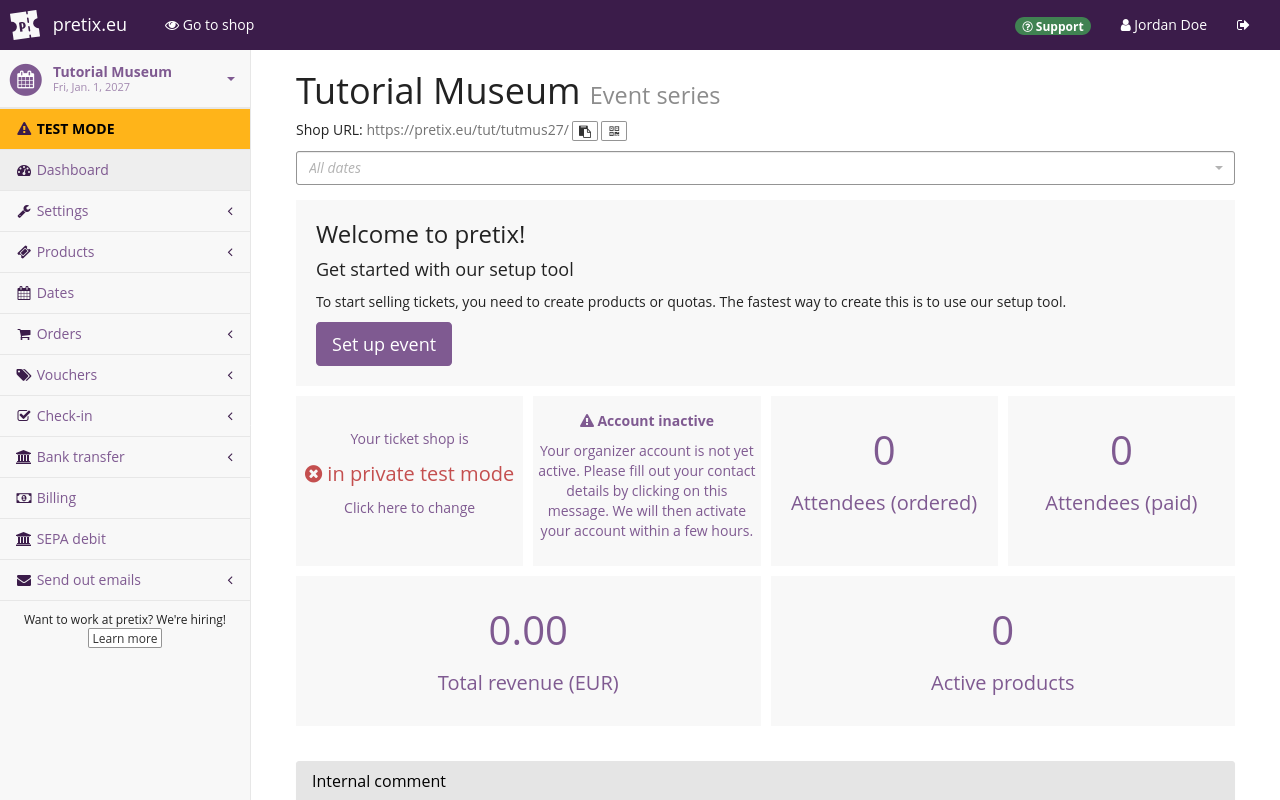
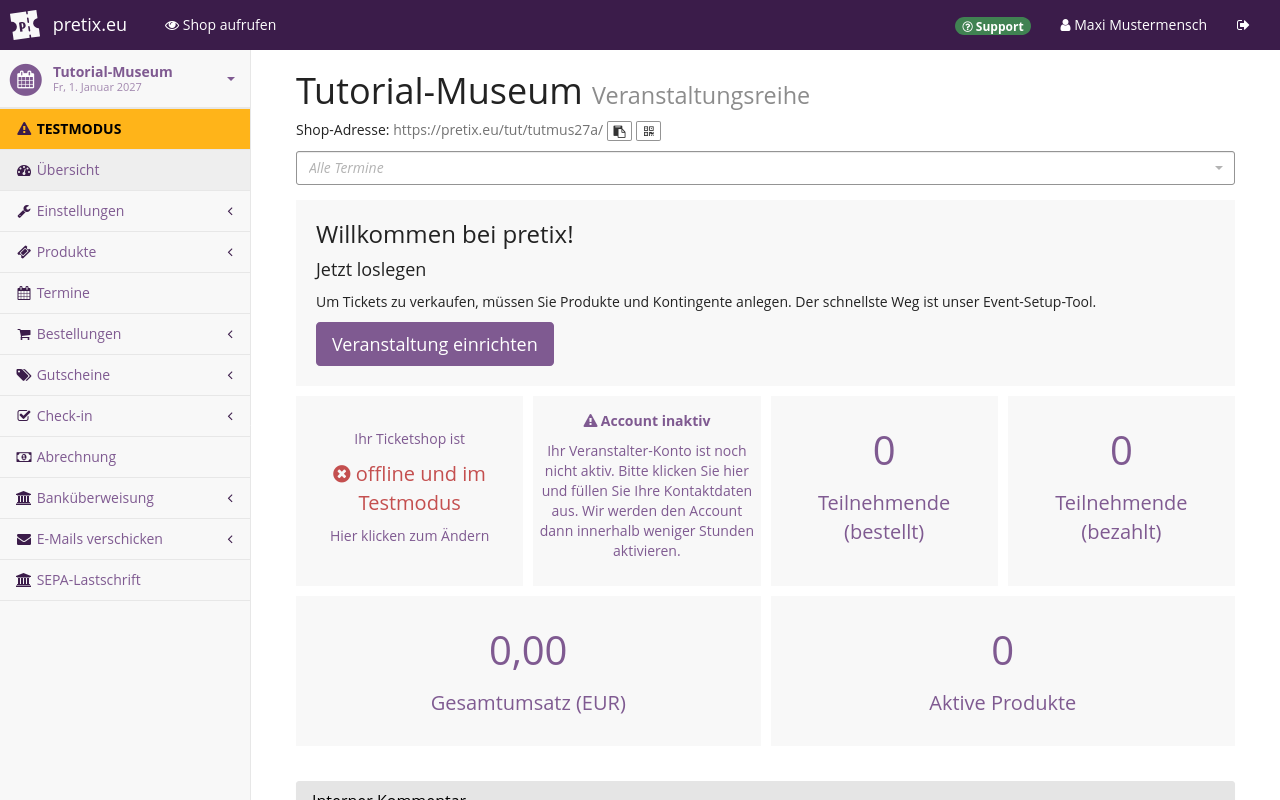
Products: add German screenshots (#183)
* Add German screenshots

* Add screenshots

* Add screenshots

* Add markings and arrows to screenshots

diff --git a/docs/guides/products/index.de.md b/docs/guides/products/index.de.md
@@ -18,7 +18,7 @@ Diese Anleitung erläutert die notwendigen Schritte daher in genau dieser Reihen
 
 ### Kategorien erstellen und bearbeiten
 
-![Eine Seite mit dem Titel 'Produktkategorien' zeigt eine Liste mit Kategorien, die nur den Eintrag 'Tickets' enthält, sowie einen Button zum Erstellen einer neuen Kategorie.](../../assets/screens/products/categories.png "Screenshot 'Produktkategorien'")
+![Eine Seite mit dem Titel 'Produktkategorien' zeigt eine Liste mit Kategorien, die nur den Eintrag 'Tickets' enthält, sowie einen Button zum Erstellen einer neuen Kategorie.](../../assets/screens/products/categories.de.png "Screenshot 'Produktkategorien'")
 
 Kategorien erfüllen mehrere Zwecke.
 Sie helfen Ihnen, Produkte sinnvoll zu gruppieren, sowohl im Backend als auch in Ihrem Shop.
@@ -54,7 +54,7 @@ Dazu klicken Sie auf ihren Namen oder den Bearbeitungsbutton :btn-icon:fa3-edit:
 
 ### Produkte erstellen und bearbeiten
 
-![Eine Seite mit dem Titel 'Produkte' zeigt eine Produktliste mit zwei Einträgen sowie einer Schaltfläche zum Erstellen eines neuen Produkts.](../../assets/screens/products/products.png "Screenshot 'Produkte'")
+![Eine Seite mit dem Titel 'Produkte' zeigt eine Produktliste mit zwei Einträgen sowie einer Schaltfläche zum Erstellen eines neuen Produkts.](../../assets/screens/products/products.de.png "Screenshot 'Produkte'")
 
 Wenn Sie Produkte erstellen oder bearbeiten möchten, navigieren Sie zu :navpath:Veranstaltung → :fa3-ticket: Produkte → Produkte:.
 Die angezeigte Seite zeigt eine Liste aller Produkte zu dieser Veranstaltung.
@@ -88,7 +88,7 @@ Dieser Guide erläutert Ihnen, wie Sie eine Veranstaltung mit Zeitfenstern erste
 Erstellen Sie eine neue Veranstaltung.
 Wählen Sie bei "Veranstaltungsart" die Option "Veranstaltungsreihe oder Zeitslotbuchung".
 
-![Seite mit dem Titel 'Neue Veranstaltung erstellen (Schritt 1)'. Bei 'Veranstaltungsart' ist die Option 'Veranstaltungsreihe oder Zeitslotbuchung' gewählt.'  ](../../assets/screens/event/create-series.png "Neue Veranstaltung erstellen")
+![Seite mit dem Titel 'Neue Veranstaltung erstellen (Schritt 1)'. Bei 'Veranstaltungsart' ist die Option 'Veranstaltungsreihe oder Zeitslotbuchung' gewählt.'  ](../../assets/screens/event-series/create-event-series1.de.png "Neue Veranstaltung erstellen")
 
 Grundlegende Informationen, wie Sie in pretix eine Veranstaltungsreihe erstellen, erhalten Sie in unserem Guide zu [Veranstaltungsreihen](../event-series.md).
 
@@ -106,7 +106,7 @@ Es ist sinnvoll, Zeitfenster für mehrere Wochen zu erstellen.
 Erstellen Sie keine Zeitfenster für ein ganzes Jahr oder einen noch längeren Zeitraum:
 Das macht es unnötig kompliziert, falls Sie später Änderungen daran vornehmen müssen.
 
-![Seite mit dem Titel 'Mehrere Termine erstellen', auf der die oben beschriebenen Optionen gewählt sind. Am rechten Rand wird eine Vorschau mit allen Terminen, die angelegt werden sollen, angezeigt.](../../assets/screens/event-series/create-multiple-example2.png "Mehrere Termine erstellen")
+![Seite mit dem Titel 'Mehrere Termine erstellen', auf der die oben beschriebenen Optionen gewählt sind. Am rechten Rand wird eine Vorschau mit allen Terminen, die angelegt werden sollen, angezeigt.](../../assets/screens/event-series/create-multiple-example2.de.png "Mehrere Termine erstellen")
 
 Geben Sie unter "Uhrzeiten" die Zeitfenster für jeden Veranstaltungstag ein.
 Wenn Ihr Veranstaltungsort jeden Tag von 10 bis 18 Uhr geöffnet ist und jedes Zeitfenster eine volle Stunde beträgt, können Sie den Button :btn-icon:fa3-calendar: Viele Zeitfenster hinzufügen: klicken.
@@ -116,7 +116,7 @@ Falls Ihr Zeitfenster-Muster unregelmäßig oder komplexer ist, verwenden Sie de
 
 Wenn Sie an verschiedenen Wochentagen unterschiedliche Öffnungszeiten haben, müssen Sie diesen Vorgang jede Variante der Öffnungszeiten einzeln erstellen.
 
-![Seite mit dem Titel 'Uhrzeiten' und acht Zeitfenstern von 10 bis 18 Uhr; jedes Zeitfenster dauert eine Stunde und es sind keine Einlasszeiten angegeben.](../../assets/screens/event-series/create-times.png "Mehrere Terminen erstellen – Termine")
+![Seite mit dem Titel 'Uhrzeiten' und acht Zeitfenstern von 10 bis 18 Uhr; jedes Zeitfenster dauert eine Stunde und es sind keine Einlasszeiten angegeben.](../../assets/screens/event-series/create-times.de.png "Mehrere Terminen erstellen – Termine")
 
 Erstellen Sie bei "Kontingente" ein oder mehrere Kontingente.
 Diese Kontingente bestimmen, wie viele Personen ein Ticket für ein Zeitfenster buchen können.
@@ -135,7 +135,7 @@ Für eine Veranstaltungsreihe oder das Buchen von Zeitfenstern ist es sinnvoll, 
 Dazu navigieren Sie zu :navpath:Ihre Veranstaltung → :fa3-wrench: Einstellungen → Allgemein:.
 Rufen Sie den Reiter :btn:Anzeige: auf und wählen Sie bei "Standard-Anzeige" die Option "Wochenkalender".
 
-![Seite mit der Überschrift 'Kalender- und Listenansichten'. Unter 'Standard-Anzeige' ist die Option 'Wochenkalender' ausgewählt.](../../assets/screens/event-series/calendar-views.png "Anzeige – Kalender- und Listenansichten")
+![Seite mit der Überschrift 'Kalender- und Listenansichten'. Unter 'Standard-Anzeige' ist die Option 'Wochenkalender' ausgewählt.](../../assets/screens/event-series/calendar-views.de.png "Anzeige – Kalender- und Listenansichten")
 
 In Ihrem Shop wird jetzt ein Wochenüberblick aller Zeitfenster und ihrer jeweiligen Verfügbarkeit angezeigt.
 
@@ -155,7 +155,7 @@ Das Feld "Toleranz (Minuten)" können Sie leer lassen.
 Wenn Sie den Teilnehmer\*innen die Möglichkeit geben möchten, beispielsweise 10 Minuten vor Veranstaltungsbeginn eingelassen zu werden, geben Sie bei "Toleranz (Minuten)" `10` an.
 Klicken Sie den Button :btn-icon:fa3-plus-circle: Bedingung hinzufügen: erneut und wählen Sie erst "Aktueller Zeitpunkt", dann "ist vor" und dann "Veranstaltungsende".
 
-![Seite für eigene Check-in-Regel, die entsprechend der Anleitung oben eingerichtet wurde.](../../assets/screens/products/time-slot-check-in-rule.png "Eigene Check-In-Regeln")
+![Seite für eigene Check-in-Regel, die entsprechend der Anleitung oben eingerichtet wurde.](../../assets/screens/products/time-slot-check-in-rule.de.png "Eigene Check-In-Regeln")
 
 Mit diesen beiden Einschränkungen können Kund\*innen Ihre Veranstaltung nur in dem Zeitfenster besuchen, für das sie ein Ticket gekauft haben.
 Wenn Sie alles wie gewünscht gewählt haben, klicken Sie den Button :btn:Speichern:.
@@ -197,7 +197,7 @@ Option A erfordert, dass Kund\*innen über ein Kund\*innenkonto identifiziert w
 Sie müssen daher zuerst in den Veranstalter-Einstellungen auf dem Reiter "Kundenkonten" die Funktion für Kund\*innenkonten aktivieren.
 Siehe auch: [Kund\*innenkonten](../customer-accounts.md)
 
-![Seite mit Veranstalter-Einstellungen, Reiter 'Kundenkonten'. Die Kontrollkästchen 'Erlaube Kunden, Kundenkonten zu registrieren', 'Erlaube den Login mit E-Mail-Adresse und Passwort' und 'Bestellungen auf Basis der E-Mail-Adresse Kundenkonten zuordnen' sind gewählt.](../../assets/screens/organizer/customer-accounts.png "Veranstalter-Einstellungen – Kundenkonten")
+![Seite mit Veranstalter-Einstellungen, Reiter 'Kundenkonten'. Die Kontrollkästchen 'Erlaube Kunden, Kundenkonten zu registrieren', 'Erlaube den Login mit E-Mail-Adresse und Passwort' und 'Bestellungen auf Basis der E-Mail-Adresse Kundenkonten zuordnen' sind gewählt.](../../assets/screens/organizer/customer-accounts.de.png "Veranstalter-Einstellungen – Kundenkonten")
 
 Navigieren Sie anschließend zu :navpath:Ihr Veranstalter → :fa3-user: Kundenkonten → Mitgliedschafts-Typen:.
 Klicken Sie den Button :btn-icon:fa3-plus: Neuen Mitgliedschafts-Typ erstellen:.
@@ -210,7 +210,7 @@ Um einzustellen, dass im Rahmen der Mitgliedschaft nur eine begrenzte Anzahl Kä
 Wenn im festgelegten Zeitraum eine unbegrenzte Zahl Käufe möglich ist, lassen Sie das Feld leer.
 Wenn Sie alles wie gewünscht gewählt haben, klicken Sie den Button :btn:Speichern:.
 
-![Seite mit dem Titel 'Neuen Mitgliedschafts-Typ erstellen'. Der angegebene Name ist 'Saisonkarte 2027-1'. Die Felder neben 'Mitgliedschaft ist übertragbar' und 'Parallele Nutzung ist möglich' sind angekreuzt. Das Feld 'Maximale Nutzungen' ist leer.](../../assets/screens/products/membership-type.png "Neuen Mitgliedschafts-Typ erstellen")
+![Seite mit dem Titel 'Neuen Mitgliedschafts-Typ erstellen'. Der angegebene Name ist 'Saisonkarte 2027-1'. Die Felder neben 'Mitgliedschaft ist übertragbar' und 'Parallele Nutzung ist möglich' sind angekreuzt. Das Feld 'Maximale Nutzungen' ist leer.](../../assets/screens/products/membership-type.de.png "Neuen Mitgliedschafts-Typ erstellen")
 
 Wenn Sie den Mitgliedschafts-Typ erstellt haben, brauchen Sie eine Möglichkeit, diese Mitgliedschaften zu verkaufen.
 Erstellen Sie eine neue Veranstaltung, deren Beginn und Ende denen des Zeitraums der Saison entsprechen, für die Sie Dauerkarten verkaufen möchten.
@@ -222,7 +222,7 @@ Wählen Sie unter "Dieses Produkt erstellt eine Mitgliedschaft vom Typ" die Mitg
 Standardmäßig ist das Kontrollkästchen neben "Die Dauer der Mitgliedschaft entspricht der Dauer der Veranstaltung bzw. in Veranstaltungsreihen des gebuchten Termins" angekreuzt.
 Falls Sie mehrere Zeitkarten für unterschiedliche Zeiträume verkaufen, die nicht mit der Veranstaltungsdauer übereinstimmen, entfernen Sie die Markierung aus diesem Kontrollkästchen.
 
-![Seite mit dem Titel 'Produkt bearbeiten': Saisonkarte auf dem Reiter 'Zusätzliche Einstellungen'. Unter 'Dieses Produkt erstellt eine Mitgliedschaft vom Typ' ist die Mitgliedschaft 'Saisonkarte 2027-01' gewählt. Das Kontrollkästchen neben 'Die Dauer der Mitgliedschaft entspricht der Dauer der Veranstaltung bzw. in Veranstaltungsreihen des gebuchten Termins' ist markiert.](../../assets/screens/products/product-creates-membership.png "Produkt bearbeiten: Saisonkarte")
+![Seite mit dem Titel 'Produkt bearbeiten': Saisonkarte auf dem Reiter 'Zusätzliche Einstellungen'. Unter 'Dieses Produkt erstellt eine Mitgliedschaft vom Typ' ist die Mitgliedschaft 'Saisonkarte 2027-01' gewählt. Das Kontrollkästchen neben 'Die Dauer der Mitgliedschaft entspricht der Dauer der Veranstaltung bzw. in Veranstaltungsreihen des gebuchten Termins' ist markiert.](../../assets/screens/products/product-creates-membership.de.png "Produkt bearbeiten: Saisonkarte")
 
 Damit Kund\*innen die Dauerkarte nicht mit dem Ticket verwechseln, empfiehlt es sich, die Möglichkeit zum Herunterladen des Tickets zu deaktivieren.
 Navigieren Sie zu :navpath:Ihre Veranstaltung →  :fa3-wrench: Einstellungen: und entfernen Sie die Markierung aus dem Kästchen neben "Ticket-Download anschalten".
@@ -236,7 +236,7 @@ Wenn Sie dieses Produkt nur Kund\*innen anzeigen möchten, die bereits eine akti
 Wiederholen Sie diese Schritte für jedes Produkt, das für Inhaber\*innen von Dauerkarten kostenlos verfügbar sein soll.
 Wenn Inhaber\*innen von Dauerkarten die Möglichkeit haben sollen, mehrere Ihrer Veranstaltung kostenlos zu besuchen, wiederholen Sie diese Schritte für jede in Frage kommende Veranstaltung.
 
-![Seite mit der gewählten Option 'Erfordere eine aktive Mitgliedschaft' und der Option 'Erlaubte Mitgliedschafts-Typen', unter der 'Saisonkarte2027-1' markiert ist. Das Kontrollkästchen neben 'Ohne gültige Mitgliedschaft verstecken' ist markiert.](../../assets/screens/products/require.png "Erfordere eine aktive Mitgliedschaft")
+![Seite mit der gewählten Option 'Erfordere eine aktive Mitgliedschaft' und der Option 'Erlaubte Mitgliedschafts-Typen', unter der 'Saisonkarte2027-1' markiert ist. Das Kontrollkästchen neben 'Ohne gültige Mitgliedschaft verstecken' ist markiert.](../../assets/screens/products/require.de.png "Erfordere eine aktive Mitgliedschaft")
 
 #### Option B: Separater Shop für Dauerkarten
 
@@ -331,7 +331,7 @@ Sie haben nun mehrere Optionen:
  - Wählen Sie `Minuten seit vorherigem Eintritt`, `≤` und `15`.
  Das bewirkt, dass die Dauerkarte höchstens einmal alle fünfzehn Minuten genutzt werden kann.
 
-![Seite für eigene Check-in-Regeln, die entsprechend der Anleitung oben eingerichtet wurde.](../../assets/screens/products/seasontickets_rules1.png "Regel-Set 1 für Dauerkarten")
+![Seite für eigene Check-in-Regeln, die entsprechend der Anleitung oben eingerichtet wurde.](../../assets/screens/products/seasontickets-rules1.de.png "Regel-Set 1 für Dauerkarten")
 
 Der Screenshot oben stellt diese Logik dar.
 Diese Regeln sorgen dafür, dass Inhaber\*innen von Standardtickets am gewählten Termin nur eingelassen werden, wenn ihr Ticket bisher noch nicht genutzt wurde.

diff --git a/docs/guides/products/sessions.de.md b/docs/guides/products/sessions.de.md
@@ -44,7 +44,7 @@ Ergänzend zu den Standard-Zutrittsprodukten für diese Konferenz müssen Sie au
      - Workshop D (20 €)
  - ein Kontingent für jedes Zusatzprodukt (Workshop), jeweils mit der Gesamtkapazität 20
 
-![Seite "Produkt bearbeiten", Reiter "Zusatzprodukte". Die Kategorie "Workshops" ist gewählt. Der Mindestwert ist 0, der Höchstwert ist 2](../../assets/screens/products/add-on.png "Einem Produkt Zusatzprodukte hinzufügen")
+![Seite "Produkt bearbeiten", Reiter "Zusatzprodukte". Die Kategorie "Workshops" ist gewählt. Der Mindestwert ist 0, der Höchstwert ist 2](../../assets/screens/products/add-on.de.png "Einem Produkt Zusatzprodukte hinzufügen")
 
 Wenn Sie diese Kategorien, Produkte und Kontingente erstellt haben, bearbeiten Sie die Standard-Zutrittstickets und wechseln Sie zum Reiter :btn:Zusatzprodukte:.
 Fügen Sie ein Zusatzprodukt aus der Kategorie "Workshops" hinzu mit "Minimale Anzahl" auf `0` und "Maximale Anzahl" auf `2`.
@@ -81,7 +81,7 @@ Solche komplexeren Zeitpläne können Sie mit der Funktion Agenda-Beschränkunge
 Um die entsprechende Erweiterung zu aktivieren, navigieren Sie zu :navpath:Ihre Veranstaltung → :fa3-wrench: Einstellungen → Erweiterungen: und rufen den Reiter :btn:Funktionen: auf.
 Suchen Sie in der Liste nach der Erweiterung "Agenda-Beschränkungen" und klicken Sie den Button :btn:Aktivieren: daneben.
 
-![Seite "Produkt bearbeiten", Reiter "Zusätzliche Einstellungen". Es werden Optionen für "Beginn" und "Ende" angezeigt, Datum und Uhrzeit sind jeweils eingetragen.](../../assets/screens/products/agenda-constraints.png "Agenda-Beschränkungen für ein Produkt")
+![Seite "Produkt bearbeiten", Reiter "Zusätzliche Einstellungen". Es werden Optionen für "Beginn" und "Ende" angezeigt, Datum und Uhrzeit sind jeweils eingetragen.](../../assets/screens/products/agenda-constraints.de.png "Agenda-Beschränkungen für ein Produkt")
 
 Erstellen Sie eine Kategorie für Sitzungstickets und markieren Sie das Kontrollkästchen "Produkte in dieser Kategorie sind Zusatzprodukte".
 Erstellen Sie für jede einzelne Sitzung ein Produkt, fügen Sie es der Kategorie der Sitzungstickets hinzu und wechseln Sie zum Reiter :btn:Zusätzliche Einstellungen:.

diff --git a/docs/guides/products/discounts.de.md b/docs/guides/products/discounts.de.md
@@ -244,7 +244,7 @@ Mindestens eine der folgenden Bedingungen (ODER)
     - Produkt ist eines von `Ticket Tag 3`, `Ticket Tag 1 + Tag 3`, `Ticket Tag 2 + Tag 3` oder `Ticket für alle drei Tage`
     - Aktueller Tag der Woche = 3 (Mittwoch)
 
-![Eigene Check-in-Regel mit drei Blöcken von UND-Bedingungen. Der erste verlangt, dass das Produkt eines der Produkte für Tag 1 ist UND dass der aktuelle Wochentag Montag ist. Der zweite und der dritte Block verlangen dasselbe für Tag 2 und Dienstag beziehungsweise für Tag 3 und Mittwoch. Die drei Blöcke von UND-Bedingungen sind Teil einer ODER-Bedingung.](../../assets/screens/products/check-in-rules-combination-products.png "Eigene Check-in-Regel")
+![Eigene Check-in-Regel mit drei Blöcken von UND-Bedingungen. Der erste verlangt, dass das Produkt eines der Produkte für Tag 1 ist UND dass der aktuelle Wochentag Montag ist. Der zweite und der dritte Block verlangen dasselbe für Tag 2 und Dienstag beziehungsweise für Tag 3 und Mittwoch. Die drei Blöcke von UND-Bedingungen sind Teil einer ODER-Bedingung.](../../assets/screens/products/check-in-rules-combination-products.de.png "Eigene Check-in-Regel")
 
 #### Option B: Zusatzprodukte und Produktpakete
 

diff --git a/docs/guides/products/index.md b/docs/guides/products/index.md
@@ -330,7 +330,7 @@ You have several options:
  - Select "Minutes since last entry" "≤", and "15".
  This means that the season pass can only be used once every fifteen minutes.
 
-![Custom check-in rule page set up according to the instructions above.](../../assets/screens/products/seasontickets_rules1.png "Season tickets rules 1")
+![Custom check-in rule page set up according to the instructions above.](../../assets/screens/products/seasontickets-rules1.png "Season tickets rules 1")
 
 The logic is depicted in the screenshot above.
 These rules ensure that regular tickets holders are only admitted to their chosen date and if their ticket has not been used before.
